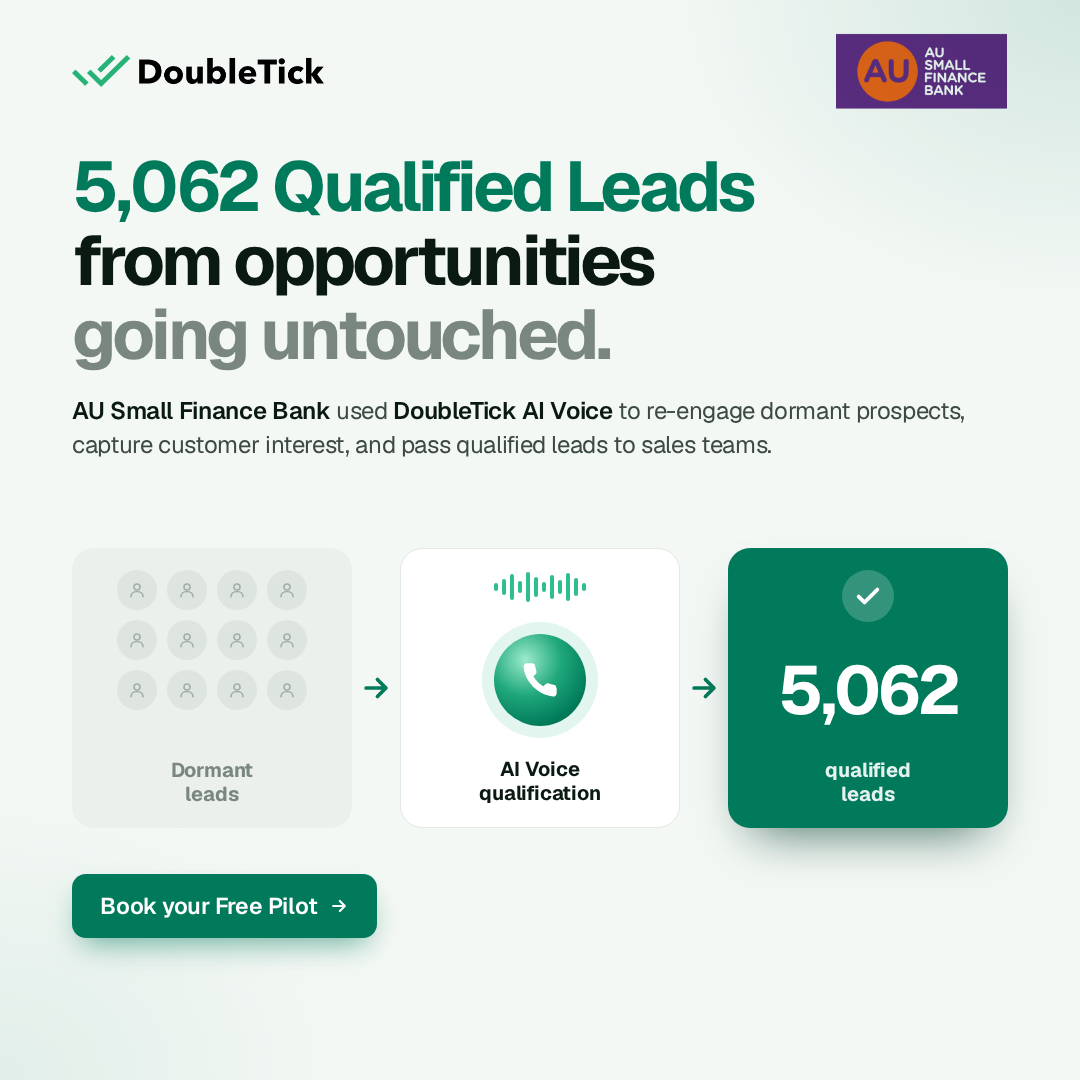
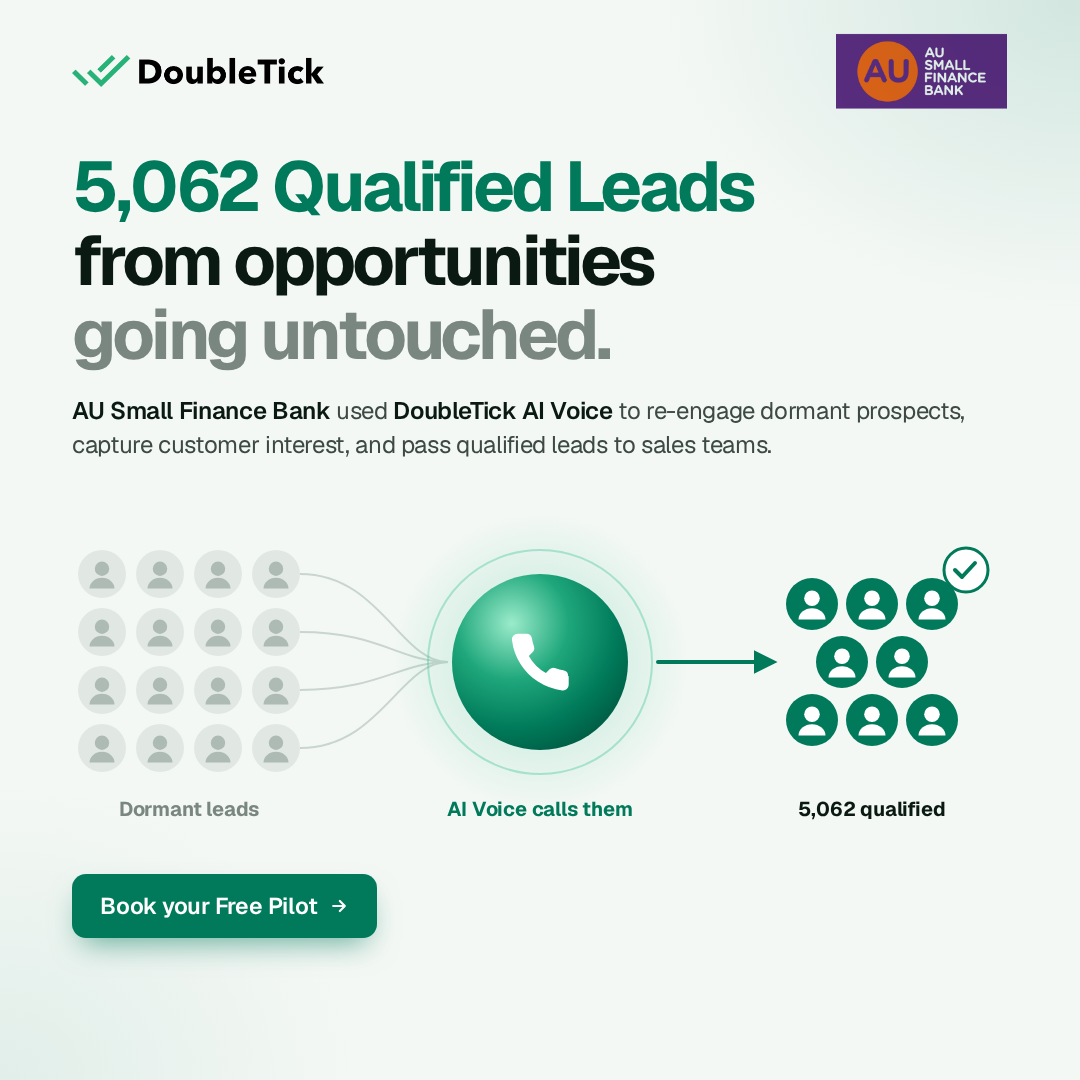
feat: visual-led unboxed flow for AU 5,062 ad
Claude-Session: https://claude.ai/code/session_013Hi5o4KgvuLbKTeGkStAKX

diff --git a/ads/doubletick-case-au-v7/index.html b/ads/doubletick-case-au-v7/index.html
@@ -19,26 +19,10 @@
   .sub { left: 72px; right: 72px; top: 394px; font-size: 24px; line-height: 1.4; color: var(--ink-2); letter-spacing: -0.015em; }
   .sub b { color: var(--ink); font-weight: 600; }
 
-  /* visual flow: dormant leads -> AI Voice qualification -> 5,062 qualified leads */
-  .vis { left: 72px; top: 548px; width: 936px; height: 280px; display: grid; grid-template-columns: 1fr 48px 1fr 48px 1fr; align-items: stretch; }
-  .arr { display: grid; place-items: center; }
-  .st { border-radius: 22px; padding: 22px 20px; display: flex; flex-direction: column; align-items: center; justify-content: space-between; text-align: center; }
-  .st .t { font-size: 20px; font-weight: 700; letter-spacing: -0.01em; line-height: 1.2; }
-  .s1 { background: #ECF0ED; }
-  .s1 .t { color: #7A8781; }
-  .grid { display: grid; grid-template-columns: repeat(4, 40px); gap: 10px; }
-  .grid i { width: 40px; height: 40px; border-radius: 50%; background: #DEE5E1; display: grid; place-items: center; }
-  .s2 { background: #fff; border: 1px solid var(--line); }
-  .s2 .t { color: var(--ink); }
-  .orb { width: 92px; height: 92px; border-radius: 50%; display: grid; place-items: center;
-    background: radial-gradient(circle at 34% 28%, #9BEBCB 0%, #1FA77B 40%, #007A5A 75%, #005A42 100%); box-shadow: 0 0 0 12px rgba(47,191,143,.14); }
-  .wv { display: flex; align-items: center; gap: 4px; height: 32px; }
-  .wv b { width: 4px; border-radius: 2px; background: var(--mint); display: block; }
-  .s3 { background: var(--green); color: #fff; box-shadow: 0 26px 48px -24px rgba(0,60,43,.75); }
-  .s3 .ok { width: 52px; height: 52px; border-radius: 50%; background: rgba(255,255,255,.2); display: grid; place-items: center; }
-  .s3 .n { font-size: 68px; font-weight: 700; letter-spacing: -0.05em; line-height: 1; }
-  .s3 .t { color: rgba(255,255,255,.9); }
-
+  /* visual: big, unboxed flow — grey leads -> AI Voice -> green qualified leads */
+  .vis { left: 0; top: 512px; width: 1080px; height: 360px; }
+  .vis svg { width: 1080px; height: 360px; display: block; }
+  .lb { position: absolute; top: 284px; transform: translateX(-50%); font-size: 20px; font-weight: 700; letter-spacing: -0.01em; white-space: nowrap; }
   .cta { left: 72px; top: 874px; }
   .btn { background: var(--green); color: #fff; font-size: 23px; font-weight: 600; letter-spacing: -0.01em; padding: 17px 28px; border-radius: 14px;
     display: flex; align-items: center; gap: 12px; box-shadow: 0 14px 30px -10px rgba(0,122,90,.6); }
@@ -50,11 +34,26 @@
   <p class="sub"><b>AU Small Finance Bank</b> used <b>DoubleTick AI Voice</b> to re-engage dormant prospects, capture customer interest, and pass qualified leads to sales teams.</p>
 
   <div class="vis">
-    <div class="st s1"><div class="grid"><i><svg width="18" height="18" viewBox="0 0 24 24" fill="none" stroke="#A3AFA9" stroke-width="2.2" stroke-linecap="round"><circle cx="12" cy="8" r="4"/><path d="M4 21c0-4.4 3.6-7 8-7s8 2.6 8 7"/></svg></i><i><svg width="18" height="18" viewBox="0 0 24 24" fill="none" stroke="#A3AFA9" stroke-width="2.2" stroke-linecap="round"><circle cx="12" cy="8" r="4"/><path d="M4 21c0-4.4 3.6-7 8-7s8 2.6 8 7"/></svg></i><i><svg width="18" height="18" viewBox="0 0 24 24" fill="none" stroke="#A3AFA9" stroke-width="2.2" stroke-linecap="round"><circle cx="12" cy="8" r="4"/><path d="M4 21c0-4.4 3.6-7 8-7s8 2.6 8 7"/></svg></i><i><svg width="18" height="18" viewBox="0 0 24 24" fill="none" stroke="#A3AFA9" stroke-width="2.2" stroke-linecap="round"><circle cx="12" cy="8" r="4"/><path d="M4 21c0-4.4 3.6-7 8-7s8 2.6 8 7"/></svg></i><i><svg width="18" height="18" viewBox="0 0 24 24" fill="none" stroke="#A3AFA9" stroke-width="2.2" stroke-linecap="round"><circle cx="12" cy="8" r="4"/><path d="M4 21c0-4.4 3.6-7 8-7s8 2.6 8 7"/></svg></i><i><svg width="18" height="18" viewBox="0 0 24 24" fill="none" stroke="#A3AFA9" stroke-width="2.2" stroke-linecap="round"><circle cx="12" cy="8" r="4"/><path d="M4 21c0-4.4 3.6-7 8-7s8 2.6 8 7"/></svg></i><i><svg width="18" height="18" viewBox="0 0 24 24" fill="none" stroke="#A3AFA9" stroke-width="2.2" stroke-linecap="round"><circle cx="12" cy="8" r="4"/><path d="M4 21c0-4.4 3.6-7 8-7s8 2.6 8 7"/></svg></i><i><svg width="18" height="18" viewBox="0 0 24 24" fill="none" stroke="#A3AFA9" stroke-width="2.2" stroke-linecap="round"><circle cx="12" cy="8" r="4"/><path d="M4 21c0-4.4 3.6-7 8-7s8 2.6 8 7"/></svg></i><i><svg width="18" height="18" viewBox="0 0 24 24" fill="none" stroke="#A3AFA9" stroke-width="2.2" stroke-linecap="round"><circle cx="12" cy="8" r="4"/><path d="M4 21c0-4.4 3.6-7 8-7s8 2.6 8 7"/></svg></i><i><svg width="18" height="18" viewBox="0 0 24 24" fill="none" stroke="#A3AFA9" stroke-width="2.2" stroke-linecap="round"><circle cx="12" cy="8" r="4"/><path d="M4 21c0-4.4 3.6-7 8-7s8 2.6 8 7"/></svg></i><i><svg width="18" height="18" viewBox="0 0 24 24" fill="none" stroke="#A3AFA9" stroke-width="2.2" stroke-linecap="round"><circle cx="12" cy="8" r="4"/><path d="M4 21c0-4.4 3.6-7 8-7s8 2.6 8 7"/></svg></i><i><svg width="18" height="18" viewBox="0 0 24 24" fill="none" stroke="#A3AFA9" stroke-width="2.2" stroke-linecap="round"><circle cx="12" cy="8" r="4"/><path d="M4 21c0-4.4 3.6-7 8-7s8 2.6 8 7"/></svg></i></div><div class="t">Dormant<br/>leads</div></div>
-    <div class="arr"><svg width="34" height="34" viewBox="0 0 24 24" fill="none" stroke="#007A5A" stroke-width="2.6" stroke-linecap="round" stroke-linejoin="round"><path d="M5 12h14M13 6l6 6-6 6"/></svg></div>
-    <div class="st s2"><div class="wv"><b style="height:8px"></b><b style="height:16px"></b><b style="height:26px"></b><b style="height:12px"></b><b style="height:30px"></b><b style="height:20px"></b><b style="height:10px"></b><b style="height:24px"></b><b style="height:14px"></b><b style="height:28px"></b><b style="height:18px"></b><b style="height:8px"></b></div><div class="orb"><svg width="40" height="40" viewBox="0 0 24 24" fill="#fff"><path d="M22 16.9v3a2 2 0 0 1-2.2 2 19.8 19.8 0 0 1-8.6-3.1 19.5 19.5 0 0 1-6-6A19.8 19.8 0 0 1 2.1 4.2 2 2 0 0 1 4.1 2h3a2 2 0 0 1 2 1.7c.1.9.4 1.8.7 2.7a2 2 0 0 1-.5 2.1L8 9.8a16 16 0 0 0 6 6l1.3-1.3a2 2 0 0 1 2.1-.4c.9.3 1.8.6 2.7.7a2 2 0 0 1 1.7 2z"/></svg></div><div class="t">AI Voice<br/>qualification</div></div>
-    <div class="arr"><svg width="34" height="34" viewBox="0 0 24 24" fill="none" stroke="#007A5A" stroke-width="2.6" stroke-linecap="round" stroke-linejoin="round"><path d="M5 12h14M13 6l6 6-6 6"/></svg></div>
-    <div class="st s3"><div class="ok"><svg width="28" height="28" viewBox="0 0 24 24" fill="none" stroke="#fff" stroke-width="3.2" stroke-linecap="round" stroke-linejoin="round"><path d="M4 12.5l5 5L20 6.5"/></svg></div><div class="n">5,062</div><div class="t">qualified<br/>leads</div></div>
+    <svg viewBox="0 0 1080 360">
+      <defs>
+        <radialGradient id="og" cx="34%" cy="28%" r="80%"><stop offset="0" stop-color="#9BEBCB"/><stop offset=".4" stop-color="#1FA77B"/><stop offset=".75" stop-color="#007A5A"/><stop offset="1" stop-color="#005A42"/></radialGradient>
+        <radialGradient id="hl"><stop offset="0" stop-color="#2FBF8F" stop-opacity=".3"/><stop offset="1" stop-color="#2FBF8F" stop-opacity="0"/></radialGradient>
+        <marker id="ah" viewBox="0 0 10 10" refX="6" refY="5" markerWidth="6" markerHeight="6" orient="auto"><path d="M0 0L10 5L0 10z" fill="#007A5A"/></marker>
+      </defs>
+      <path d="M300 62 C 380 62, 400 150, 448 150" stroke="#C9D5CF" stroke-width="2" fill="none"/><path d="M300 120 C 380 120, 400 150, 448 150" stroke="#C9D5CF" stroke-width="2" fill="none"/><path d="M300 178 C 380 178, 400 150, 448 150" stroke="#C9D5CF" stroke-width="2" fill="none"/><path d="M300 236 C 380 236, 400 150, 448 150" stroke="#C9D5CF" stroke-width="2" fill="none"/>
+      <circle cx="102" cy="62" r="24" fill="#E1E8E4"/><circle cx="102" cy="56.72" r="7.199999999999999" fill="#AEBAB4"/><path d="M89.52 76.4 a12.48 10.56 0 0 1 24.96 0 Z" fill="#AEBAB4"/><circle cx="160" cy="62" r="24" fill="#E1E8E4"/><circle cx="160" cy="56.72" r="7.199999999999999" fill="#AEBAB4"/><path d="M147.52 76.4 a12.48 10.56 0 0 1 24.96 0 Z" fill="#AEBAB4"/><circle cx="218" cy="62" r="24" fill="#E1E8E4"/><circle cx="218" cy="56.72" r="7.199999999999999" fill="#AEBAB4"/><path d="M205.52 76.4 a12.48 10.56 0 0 1 24.96 0 Z" fill="#AEBAB4"/><circle cx="276" cy="62" r="24" fill="#E1E8E4"/><circle cx="276" cy="56.72" r="7.199999999999999" fill="#AEBAB4"/><path d="M263.52 76.4 a12.48 10.56 0 0 1 24.96 0 Z" fill="#AEBAB4"/><circle cx="102" cy="120" r="24" fill="#E1E8E4"/><circle cx="102" cy="114.72" r="7.199999999999999" fill="#AEBAB4"/><path d="M89.52 134.4 a12.48 10.56 0 0 1 24.96 0 Z" fill="#AEBAB4"/><circle cx="160" cy="120" r="24" fill="#E1E8E4"/><circle cx="160" cy="114.72" r="7.199999999999999" fill="#AEBAB4"/><path d="M147.52 134.4 a12.48 10.56 0 0 1 24.96 0 Z" fill="#AEBAB4"/><circle cx="218" cy="120" r="24" fill="#E1E8E4"/><circle cx="218" cy="114.72" r="7.199999999999999" fill="#AEBAB4"/><path d="M205.52 134.4 a12.48 10.56 0 0 1 24.96 0 Z" fill="#AEBAB4"/><circle cx="276" cy="120" r="24" fill="#E1E8E4"/><circle cx="276" cy="114.72" r="7.199999999999999" fill="#AEBAB4"/><path d="M263.52 134.4 a12.48 10.56 0 0 1 24.96 0 Z" fill="#AEBAB4"/><circle cx="102" cy="178" r="24" fill="#E1E8E4"/><circle cx="102" cy="172.72" r="7.199999999999999" fill="#AEBAB4"/><path d="M89.52 192.4 a12.48 10.56 0 0 1 24.96 0 Z" fill="#AEBAB4"/><circle cx="160" cy="178" r="24" fill="#E1E8E4"/><circle cx="160" cy="172.72" r="7.199999999999999" fill="#AEBAB4"/><path d="M147.52 192.4 a12.48 10.56 0 0 1 24.96 0 Z" fill="#AEBAB4"/><circle cx="218" cy="178" r="24" fill="#E1E8E4"/><circle cx="218" cy="172.72" r="7.199999999999999" fill="#AEBAB4"/><path d="M205.52 192.4 a12.48 10.56 0 0 1 24.96 0 Z" fill="#AEBAB4"/><circle cx="276" cy="178" r="24" fill="#E1E8E4"/><circle cx="276" cy="172.72" r="7.199999999999999" fill="#AEBAB4"/><path d="M263.52 192.4 a12.48 10.56 0 0 1 24.96 0 Z" fill="#AEBAB4"/><circle cx="102" cy="236" r="24" fill="#E1E8E4"/><circle cx="102" cy="230.72" r="7.199999999999999" fill="#AEBAB4"/><path d="M89.52 250.4 a12.48 10.56 0 0 1 24.96 0 Z" fill="#AEBAB4"/><circle cx="160" cy="236" r="24" fill="#E1E8E4"/><circle cx="160" cy="230.72" r="7.199999999999999" fill="#AEBAB4"/><path d="M147.52 250.4 a12.48 10.56 0 0 1 24.96 0 Z" fill="#AEBAB4"/><circle cx="218" cy="236" r="24" fill="#E1E8E4"/><circle cx="218" cy="230.72" r="7.199999999999999" fill="#AEBAB4"/><path d="M205.52 250.4 a12.48 10.56 0 0 1 24.96 0 Z" fill="#AEBAB4"/><circle cx="276" cy="236" r="24" fill="#E1E8E4"/><circle cx="276" cy="230.72" r="7.199999999999999" fill="#AEBAB4"/><path d="M263.52 250.4 a12.48 10.56 0 0 1 24.96 0 Z" fill="#AEBAB4"/>
+      <circle cx="540" cy="150" r="150" fill="url(#hl)"/>
+      <circle cx="540" cy="150" r="112" fill="none" stroke="#2FBF8F" stroke-width="2" opacity=".35"/>
+      <circle cx="540" cy="150" r="88" fill="url(#og)"/>
+      <path transform="translate(506 116) scale(2.85)" d="M22 16.9v3a2 2 0 0 1-2.2 2 19.8 19.8 0 0 1-8.6-3.1 19.5 19.5 0 0 1-6-6A19.8 19.8 0 0 1 2.1 4.2 2 2 0 0 1 4.1 2h3a2 2 0 0 1 2 1.7c.1.9.4 1.8.7 2.7a2 2 0 0 1-.5 2.1L8 9.8a16 16 0 0 0 6 6l1.3-1.3a2 2 0 0 1 2.1-.4c.9.3 1.8.6 2.7.7a2 2 0 0 1 1.7 2z" fill="#fff"/>
+      <path d="M658 150 L 768 150" stroke="#007A5A" stroke-width="4" stroke-linecap="round" marker-end="url(#ah)"/>
+      <circle cx="812" cy="92" r="26" fill="#007A5A"/><circle cx="812" cy="86.28" r="7.8" fill="#FFFFFF"/><path d="M798.48 107.6 a13.52 11.44 0 0 1 27.04 0 Z" fill="#FFFFFF"/><circle cx="872" cy="92" r="26" fill="#007A5A"/><circle cx="872" cy="86.28" r="7.8" fill="#FFFFFF"/><path d="M858.48 107.6 a13.52 11.44 0 0 1 27.04 0 Z" fill="#FFFFFF"/><circle cx="932" cy="92" r="26" fill="#007A5A"/><circle cx="932" cy="86.28" r="7.8" fill="#FFFFFF"/><path d="M918.48 107.6 a13.52 11.44 0 0 1 27.04 0 Z" fill="#FFFFFF"/><circle cx="842" cy="150" r="26" fill="#007A5A"/><circle cx="842" cy="144.28" r="7.8" fill="#FFFFFF"/><path d="M828.48 165.6 a13.52 11.44 0 0 1 27.04 0 Z" fill="#FFFFFF"/><circle cx="902" cy="150" r="26" fill="#007A5A"/><circle cx="902" cy="144.28" r="7.8" fill="#FFFFFF"/><path d="M888.48 165.6 a13.52 11.44 0 0 1 27.04 0 Z" fill="#FFFFFF"/><circle cx="812" cy="208" r="26" fill="#007A5A"/><circle cx="812" cy="202.28" r="7.8" fill="#FFFFFF"/><path d="M798.48 223.6 a13.52 11.44 0 0 1 27.04 0 Z" fill="#FFFFFF"/><circle cx="872" cy="208" r="26" fill="#007A5A"/><circle cx="872" cy="202.28" r="7.8" fill="#FFFFFF"/><path d="M858.48 223.6 a13.52 11.44 0 0 1 27.04 0 Z" fill="#FFFFFF"/><circle cx="932" cy="208" r="26" fill="#007A5A"/><circle cx="932" cy="202.28" r="7.8" fill="#FFFFFF"/><path d="M918.48 223.6 a13.52 11.44 0 0 1 27.04 0 Z" fill="#FFFFFF"/>
+      <circle cx="966" cy="58" r="22" fill="#fff" stroke="#007A5A" stroke-width="3"/>
+      <path d="M955 58 l7 7 l13 -14" stroke="#007A5A" stroke-width="4" fill="none" stroke-linecap="round" stroke-linejoin="round"/>
+    </svg>
+    <div class="lb" style="left:189px;color:#7A8781">Dormant leads</div>
+    <div class="lb" style="left:540px;color:#007A5A">AI Voice calls them</div>
+    <div class="lb" style="left:872px;color:#0A1A12">5,062 qualified</div>
   </div>
 
   <div class="cta"><div class="btn">Book your Free Pilot
